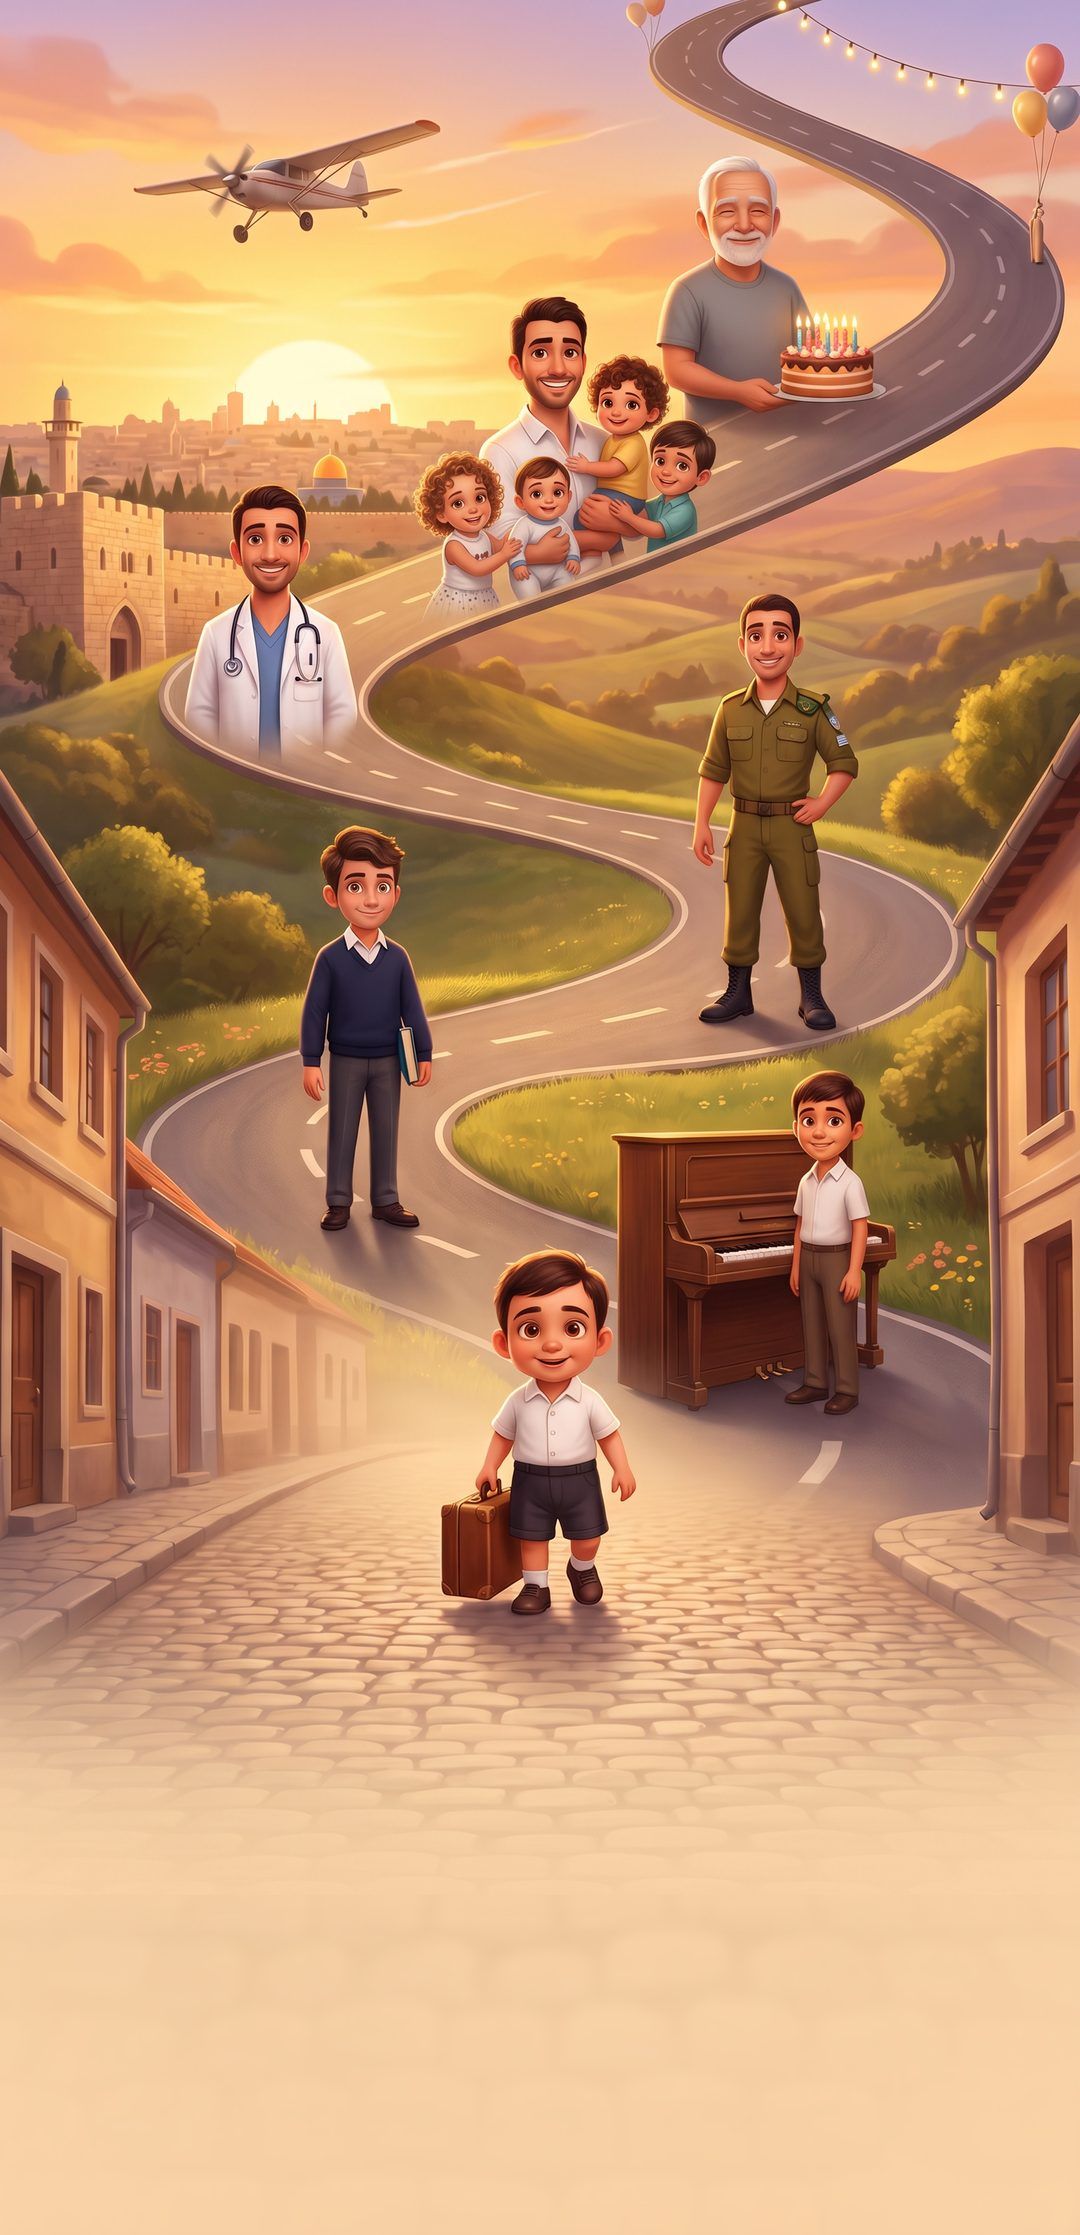
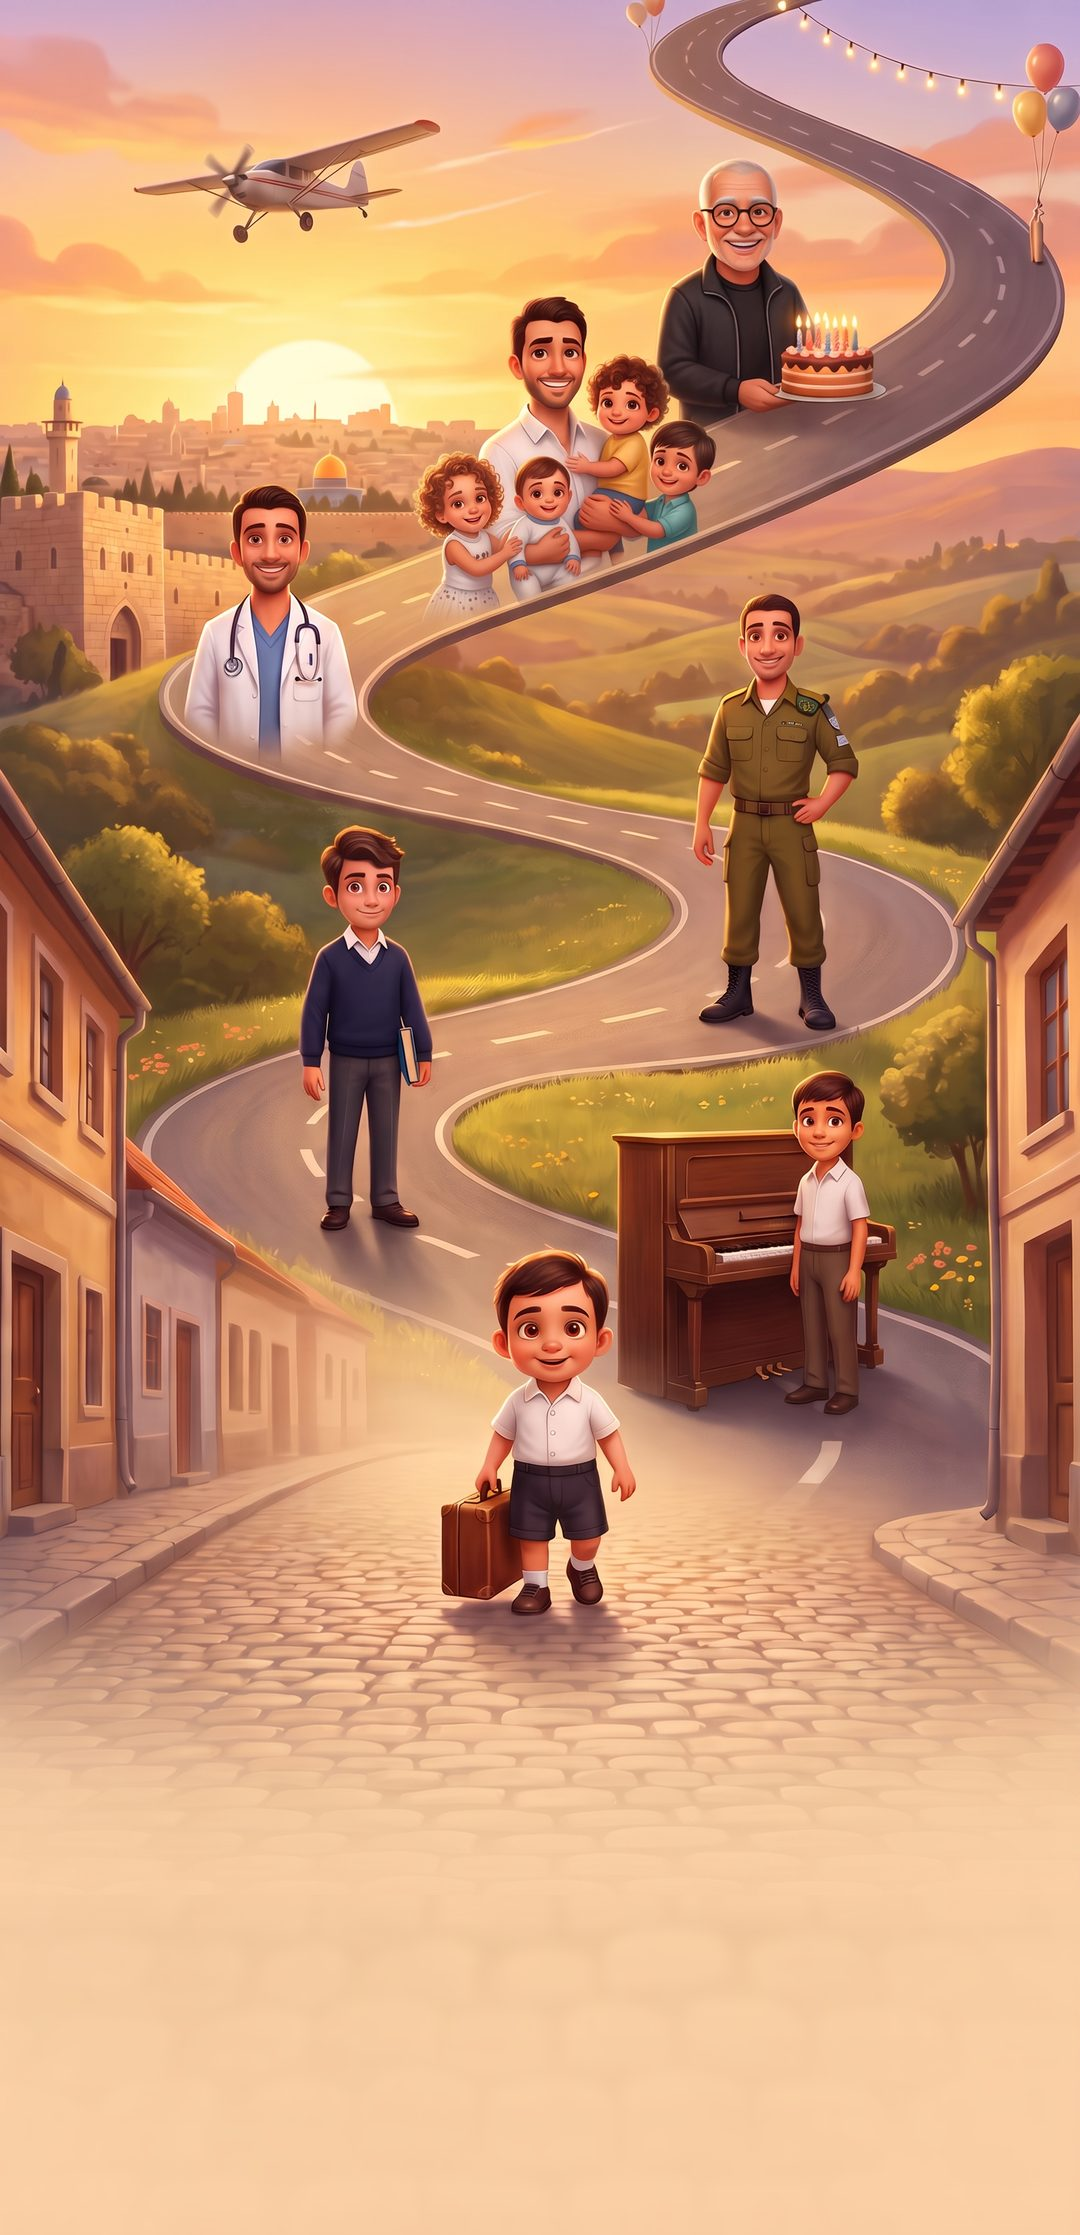
Title picture: Saba as he looks today (short grey hair, glasses, black jacket)

diff --git a/index.html b/index.html
@@ -323,23 +323,23 @@ p { margin: 0; line-height: 1.55; }
 <div id="loading" dir="rtl" role="status"><span id="loading-text">טוען את העולם…</span><div class="bar wait"><i id="loading-fill"></i></div></div>
 <div id="fade"></div>
 
-<meta name="build" content="1031135347">
+<meta name="build" content="1031135537">
 <script type="importmap">
 {
  "imports": {
-  "./character.js": "./character.js?v=1031135347",
-  "./engine.js": "./engine.js?v=1031135347",
-  "./level1.js": "./level1.js?v=1031135347",
-  "./level2.js": "./level2.js?v=1031135347",
-  "./level3.js": "./level3.js?v=1031135347",
-  "./level4.js": "./level4.js?v=1031135347",
-  "./level5.js": "./level5.js?v=1031135347",
-  "./level6.js": "./level6.js?v=1031135347",
-  "./level7.js": "./level7.js?v=1031135347",
-  "./level8.js": "./level8.js?v=1031135347",
-  "./main.js": "./main.js?v=1031135347",
-  "./models.js": "./models.js?v=1031135347",
-  "./props1.js": "./props1.js?v=1031135347"
+  "./character.js": "./character.js?v=1031135537",
+  "./engine.js": "./engine.js?v=1031135537",
+  "./level1.js": "./level1.js?v=1031135537",
+  "./level2.js": "./level2.js?v=1031135537",
+  "./level3.js": "./level3.js?v=1031135537",
+  "./level4.js": "./level4.js?v=1031135537",
+  "./level5.js": "./level5.js?v=1031135537",
+  "./level6.js": "./level6.js?v=1031135537",
+  "./level7.js": "./level7.js?v=1031135537",
+  "./level8.js": "./level8.js?v=1031135537",
+  "./main.js": "./main.js?v=1031135537",
+  "./models.js": "./models.js?v=1031135537",
+  "./props1.js": "./props1.js?v=1031135537"
  }
 }
 </script>
